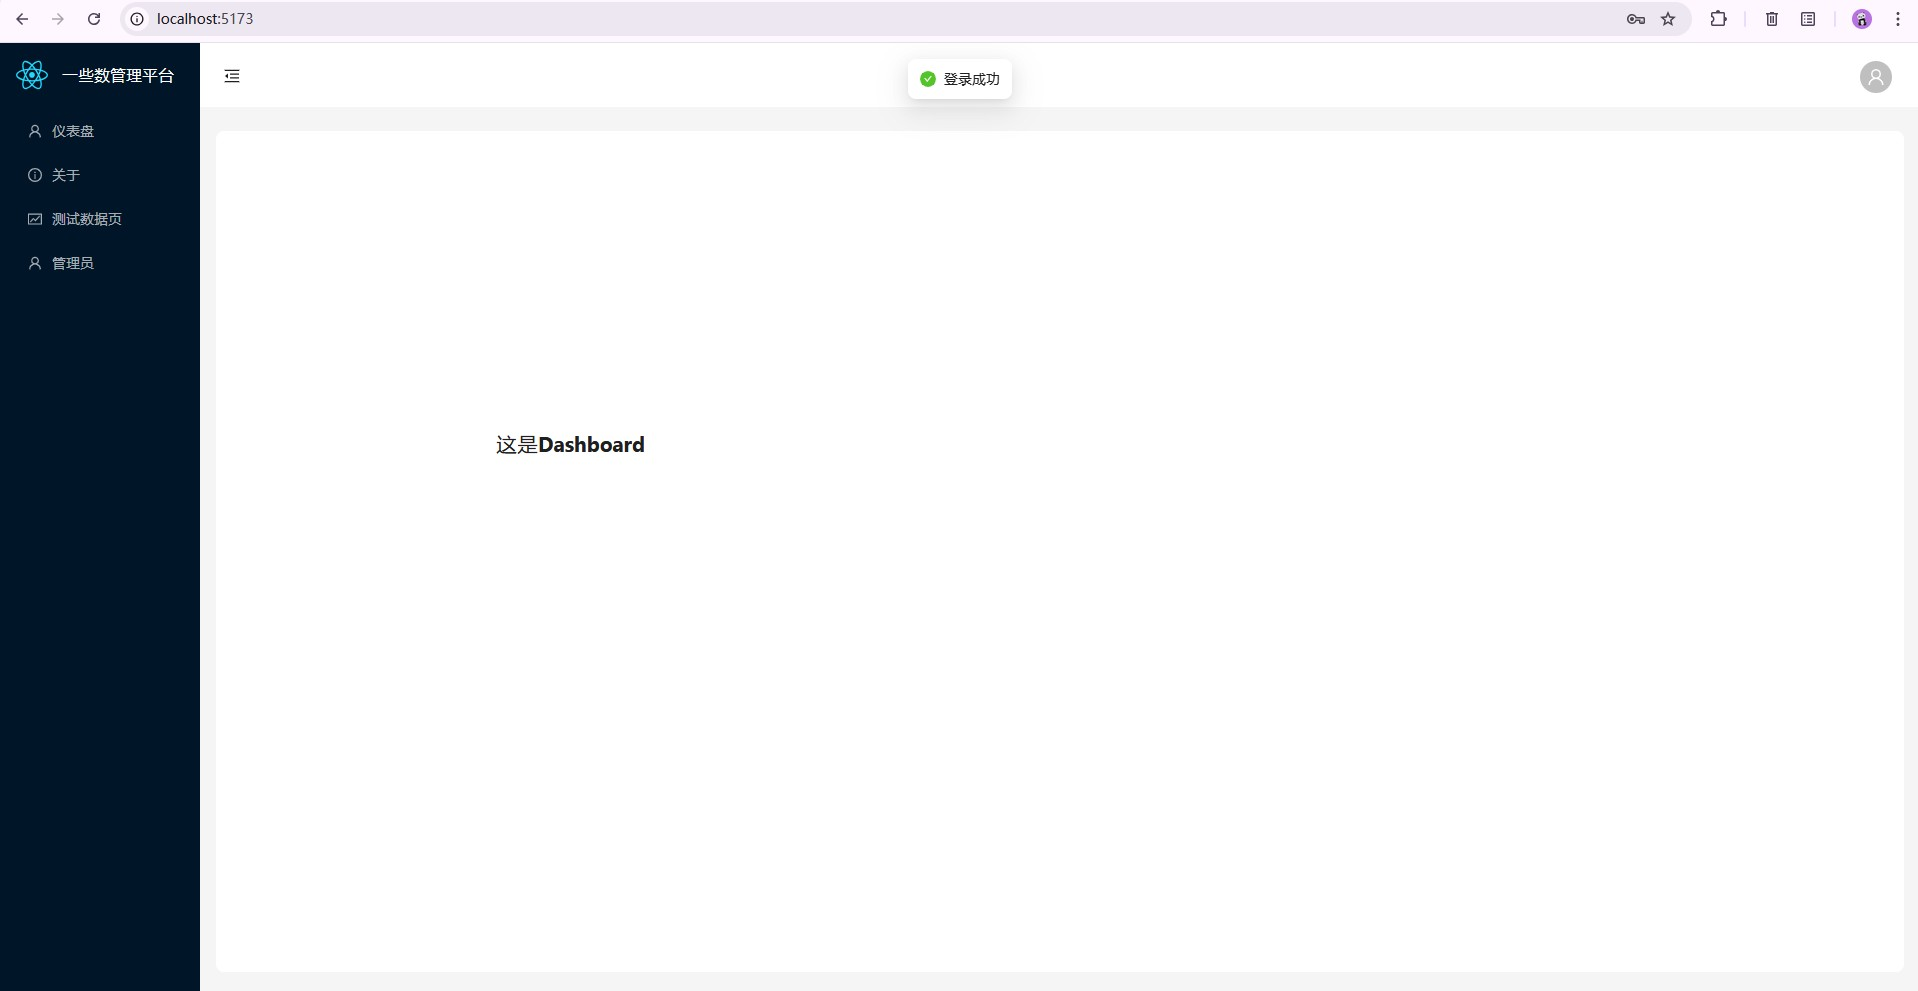
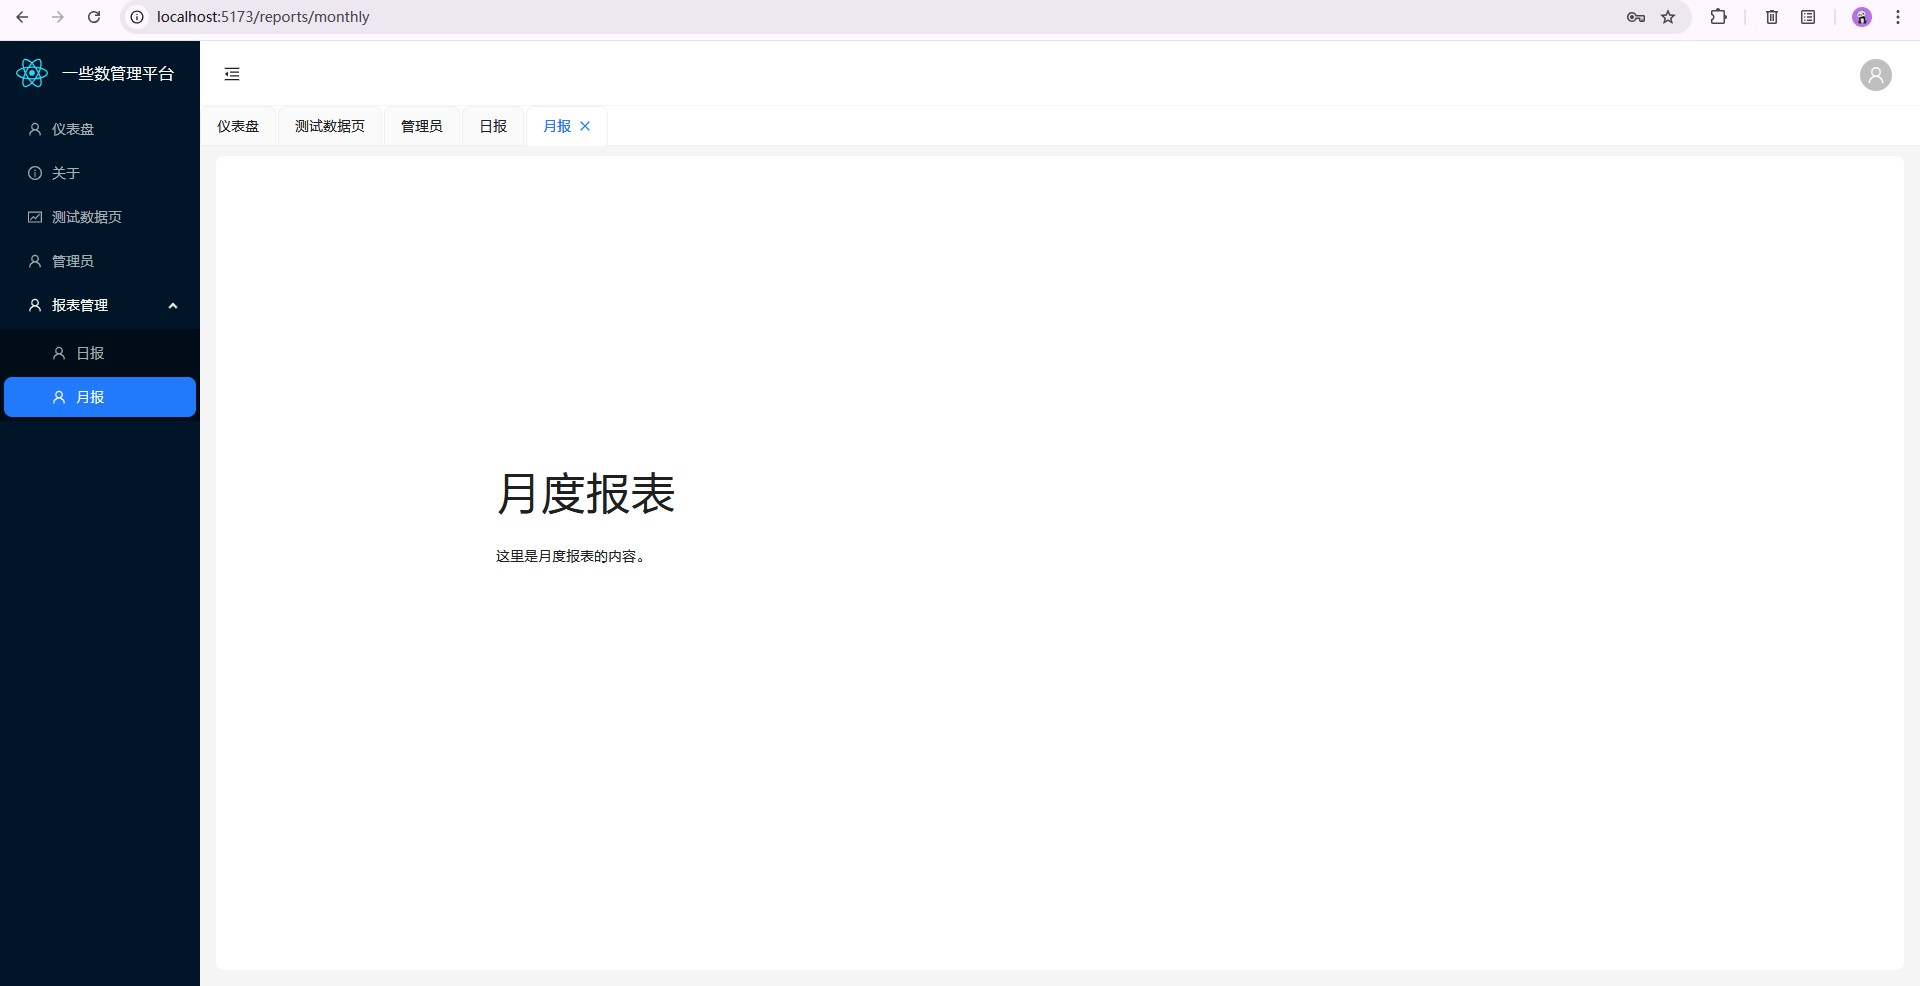
新增标签页菜单联动等

diff --git a/src/views/layout/index.jsx b/src/views/layout/index.jsx
@@ -1,5 +1,5 @@
 import { Button, Layout, Menu, theme,Dropdown,Avatar } from 'antd';
-import React, { useState } from 'react';
+import React, { useState,useEffect } from 'react';
 import { Outlet,useNavigate } from 'react-router-dom';
 import {
     MenuFoldOutlined,
@@ -17,6 +17,7 @@ import { useDispatch } from 'react-redux';
 
 import RouterTabs from './routertabs/routerTabs';
 
+
 const { Header, Sider, Content } = Layout;
 
 
@@ -31,15 +32,54 @@ export default function Main() {
     const menuList = useSelector(state => state.menu.menuList);
     const activeKey = useSelector(state => state.tab.activeKey);
     const menuItems = generateAntdMenu(menuList);
+    const [openKeys,setOpenKeys] = useState([]);
     
+    const findOpenKeys = (menuList,currentPath) => {
+      let openKeys = [];
+
+      const traverse = (items,parentPath) => {
+        for(let item of items) {
+          if(item.path === currentPath) {
+            if(parentPath) openKeys.push(parentPath);
+            return true;
+          }
+          if(item.children) {
+            if(traverse(item.children,item.path)) {
+              if(parentPath) openKeys.push(parentPath);
+              else openKeys.push(item.path);
+              return true;
+            }
+          }
+        }
+        return false;
+      };
+
+      traverse(menuList,null);
+      return openKeys;
+    }
+
+    useEffect(() => {
+      const keys = findOpenKeys(menuList,activeKey);
+      setOpenKeys(keys);
+    },[activeKey,menuList]);
+
+    const flatMenuList = (menus) => {
+      return menus.reduce((acc,item) => {
+        if(item.children) {
+          return acc.concat(item,...flatMenuList(item.children));
+        }
+        return acc.concat(item);
+      },[]);
+    }
 
     const onMenuClick = (key) => {
-      const clickedMenu = menuList.find(item => item.path === key.key);
+      const allMenuItems = flatMenuList(menuList);
+      const clickedMenu = allMenuItems.find(item => item.path === key.key);
       if (clickedMenu) {
-        dispatch({ type: 'tab/add', payload: { key:clickedMenu.path, label:clickedMenu.label, path: clickedMenu.path } });
+        dispatch({ type: 'tab/add', payload: { key: clickedMenu.path, label: clickedMenu.label, path: clickedMenu.path } });
+        dispatch({ type: 'tab/setActive', payload: clickedMenu.path });
+        navigate(clickedMenu.path);
       }
-      dispatch({ type: 'tab/setActive', payload: clickedMenu.path });
-      navigate(clickedMenu.path);
     }
 
 
@@ -71,7 +111,9 @@ export default function Main() {
                 defaultSelectedKeys={['1']}
                 selectedKeys={[activeKey]}
                 items={menuItems}
-                onClick={onMenuClick}
+                openKeys={openKeys}
+                onOpenChange={setOpenKeys}
+                onClick={({key}) => onMenuClick({key})}
               />
             </Sider>
             <Layout>

diff --git a/src/router/menuHelper.jsx b/src/router/menuHelper.jsx
@@ -5,11 +5,14 @@ import {
     FundOutlined,
 } from '@ant-design/icons';
 import React from 'react';
+import { Outlet } from 'react-router-dom';
 import Dashboard from '@/views/dashboard';
 import Admin from '@/views/admin';
 import About from '@/views/about';
 import DataPage from '@/views/datapage';
 import Main from '@/views/layout';
+import DailyReport from '@/views/reports/daily/dailyReport';
+import MonthlyReport from '@/views/reports/monthly/monthlyReport';
 
 const iconMap = {
     UserOutlined: <UserOutlined />,
@@ -24,27 +27,47 @@ const componentMap = {
     About,
     DataPage,
     Main,
+    DailyReport,
+    MonthlyReport,
 };
 
-export function generateAntdMenu(menuList) {
-    return menuList.map((item) => ({
-        key:item.path,
-        icon:iconMap[item.icon] || <UserOutlined />,
-        label:item.label
-    }));
+export function generateAntdMenu(menuList = []) {
+    return menuList.map((item) => {
+        const hasChildren = Array.isArray(item.children) && item.children.length > 0;
+        return {
+            key: item.path,
+            icon: iconMap[item.icon] || <UserOutlined />,
+            label: item.label,
+            children: hasChildren ? generateAntdMenu(item.children) : undefined,
+        };
+        
+    });
 }
 
 export function generateRoutes(menuList) {
+    const buildRoutes = (list) => {
+        return list.map((item) => {
+            const hasChildren = Array.isArray(item.children) && item.children.length > 0;
+
+            return {
+                path: item.path,
+                element: componentMap[item.component] 
+                ? React.createElement(componentMap[item.component]) : (hasChildren?<Outlet />:<div>未定义组件</div>),
+                children: hasChildren ? buildRoutes(item.children) : undefined,
+            };
+        });
+    };
+
     return [
         {
             path:'/',
-            element:<componentMap.Main />, //外层Layout
-            children:menuList.map((item) => ({
-                path: item.path ==='/' ? "" : item.path.replace('/',''),
-                element: React.createElement(componentMap[item.component]),
-                key: item.key,
-            })),
+            element: <Main />, // 外层Layout
+            children: buildRoutes(menuList),
         },
+        {
+            path:'*',
+            element: <div>404 Not Found</div>, // 404页面
+        }
     ];
 }
 

diff --git a/src/views/layout/routertabs/routerTabs copy.jsx b/src/views/layout/routertabs/routerTabs copy.jsx
@@ -1,4 +1,4 @@
-import { Dropdown,Tabs,Menu } from 'antd';
+import { Tabs } from 'antd';
 import { useSelector,useDispatch } from 'react-redux';
 import { useNavigate } from 'react-router-dom';
 import { useEffect,useState } from 'react';
@@ -36,24 +36,6 @@ export default function RouterTabs() {
       items={tabs.map(tab => ({
         key: tab.key,
         label: (
-          <Dropdown
-            trigger={['contextMenu']}
-            overlay={
-              <Menu
-                onClick={({key:menuKey}) => {
-                  if(menuKey === 'closeOthers') {
-                    dispatch({type:'tab/closeOthers',payload:tab.key});
-                  } else if (menuKey === 'closeAll') {
-                    dispatch({type:'tab/closeAll'});
-                  }
-
-                }}
-              >
-                <Menu.Item key="closeOthers">关闭其他</Menu.Item>
-                <Menu.Item key="closeAll">关闭所有</Menu.Item>
-              </Menu>
-            }
-            >
           <div
             style={{ display: 'flex', alignItems: 'center', cursor: 'pointer' }}
             onMouseEnter={() => setHoveredKey(tab.key)}
@@ -70,7 +52,6 @@ export default function RouterTabs() {
                 />
             )}
           </div>
-          </Dropdown>
         ),
       }))}
       style={{background:'#fff',marginBottom:0}} />

diff --git a/src/mock/index.js b/src/mock/index.js
@@ -48,6 +48,28 @@ Mock.mock('/api/getMenuList','get',() => {
                 icon:'VideoCameraOutlined',
                 key:"4",
                 component:"Admin"
+            },
+            {
+                path:'/reports',
+                label:'报表管理',
+                icon:'FoundOutlined',
+                key:'5',
+                children:[
+                    {
+                        path:'/reports/daily',
+                        label:'日报',
+                        icon:'FileTextOutlined',
+                        key:'5-1',
+                        component:'DailyReport',
+                    },
+                    {
+                        path:'/reports/monthly',
+                        label:'月报',
+                        icon:'FileTextOutlined',
+                        key:'5-2',
+                        component:'MonthlyReport',
+                    },
+                ]
             }
         ]
     }

diff --git a/src/store/tab.js b/src/store/tab.js
@@ -38,6 +38,17 @@ export default function tabReducer(state = initialState, action) {
 
                 return {...state,tabs: newTabs,activeKey: nextActive};
             }
+        case 'tab/closeOthers':
+            return {
+                tabs:state.tabs.filter(tab => tab.key === action.payload || tab.key === '/'),
+                activeKey:action.payload,
+            };
+        case 'tab/closeAll':{
+            return {
+                tabs:[{key:'/', label:'仪表盘',path:'/'}],
+                activeKey:'/',
+            };
+        }
         default:
             return state;
     }

diff --git a/src/views/reports/daily/dailyReport.jsx b/src/views/reports/daily/dailyReport.jsx
@@ -1,0 +1,8 @@
+export default function MonthlyReport() {
+    return (
+        <div>
+            <h1>月度报告</h1>
+            <p>这里是月度报告的内容。</p>
+        </div>
+    );
+}

diff --git a/src/views/reports/monthly/monthlyReport.jsx b/src/views/reports/monthly/monthlyReport.jsx
@@ -1,0 +1,8 @@
+export default function MonthlyReport() {
+    return (
+        <div>
+            <h1>月度报表</h1>
+            <p>这里是月度报表的内容。</p>
+        </div>
+    );
+}
